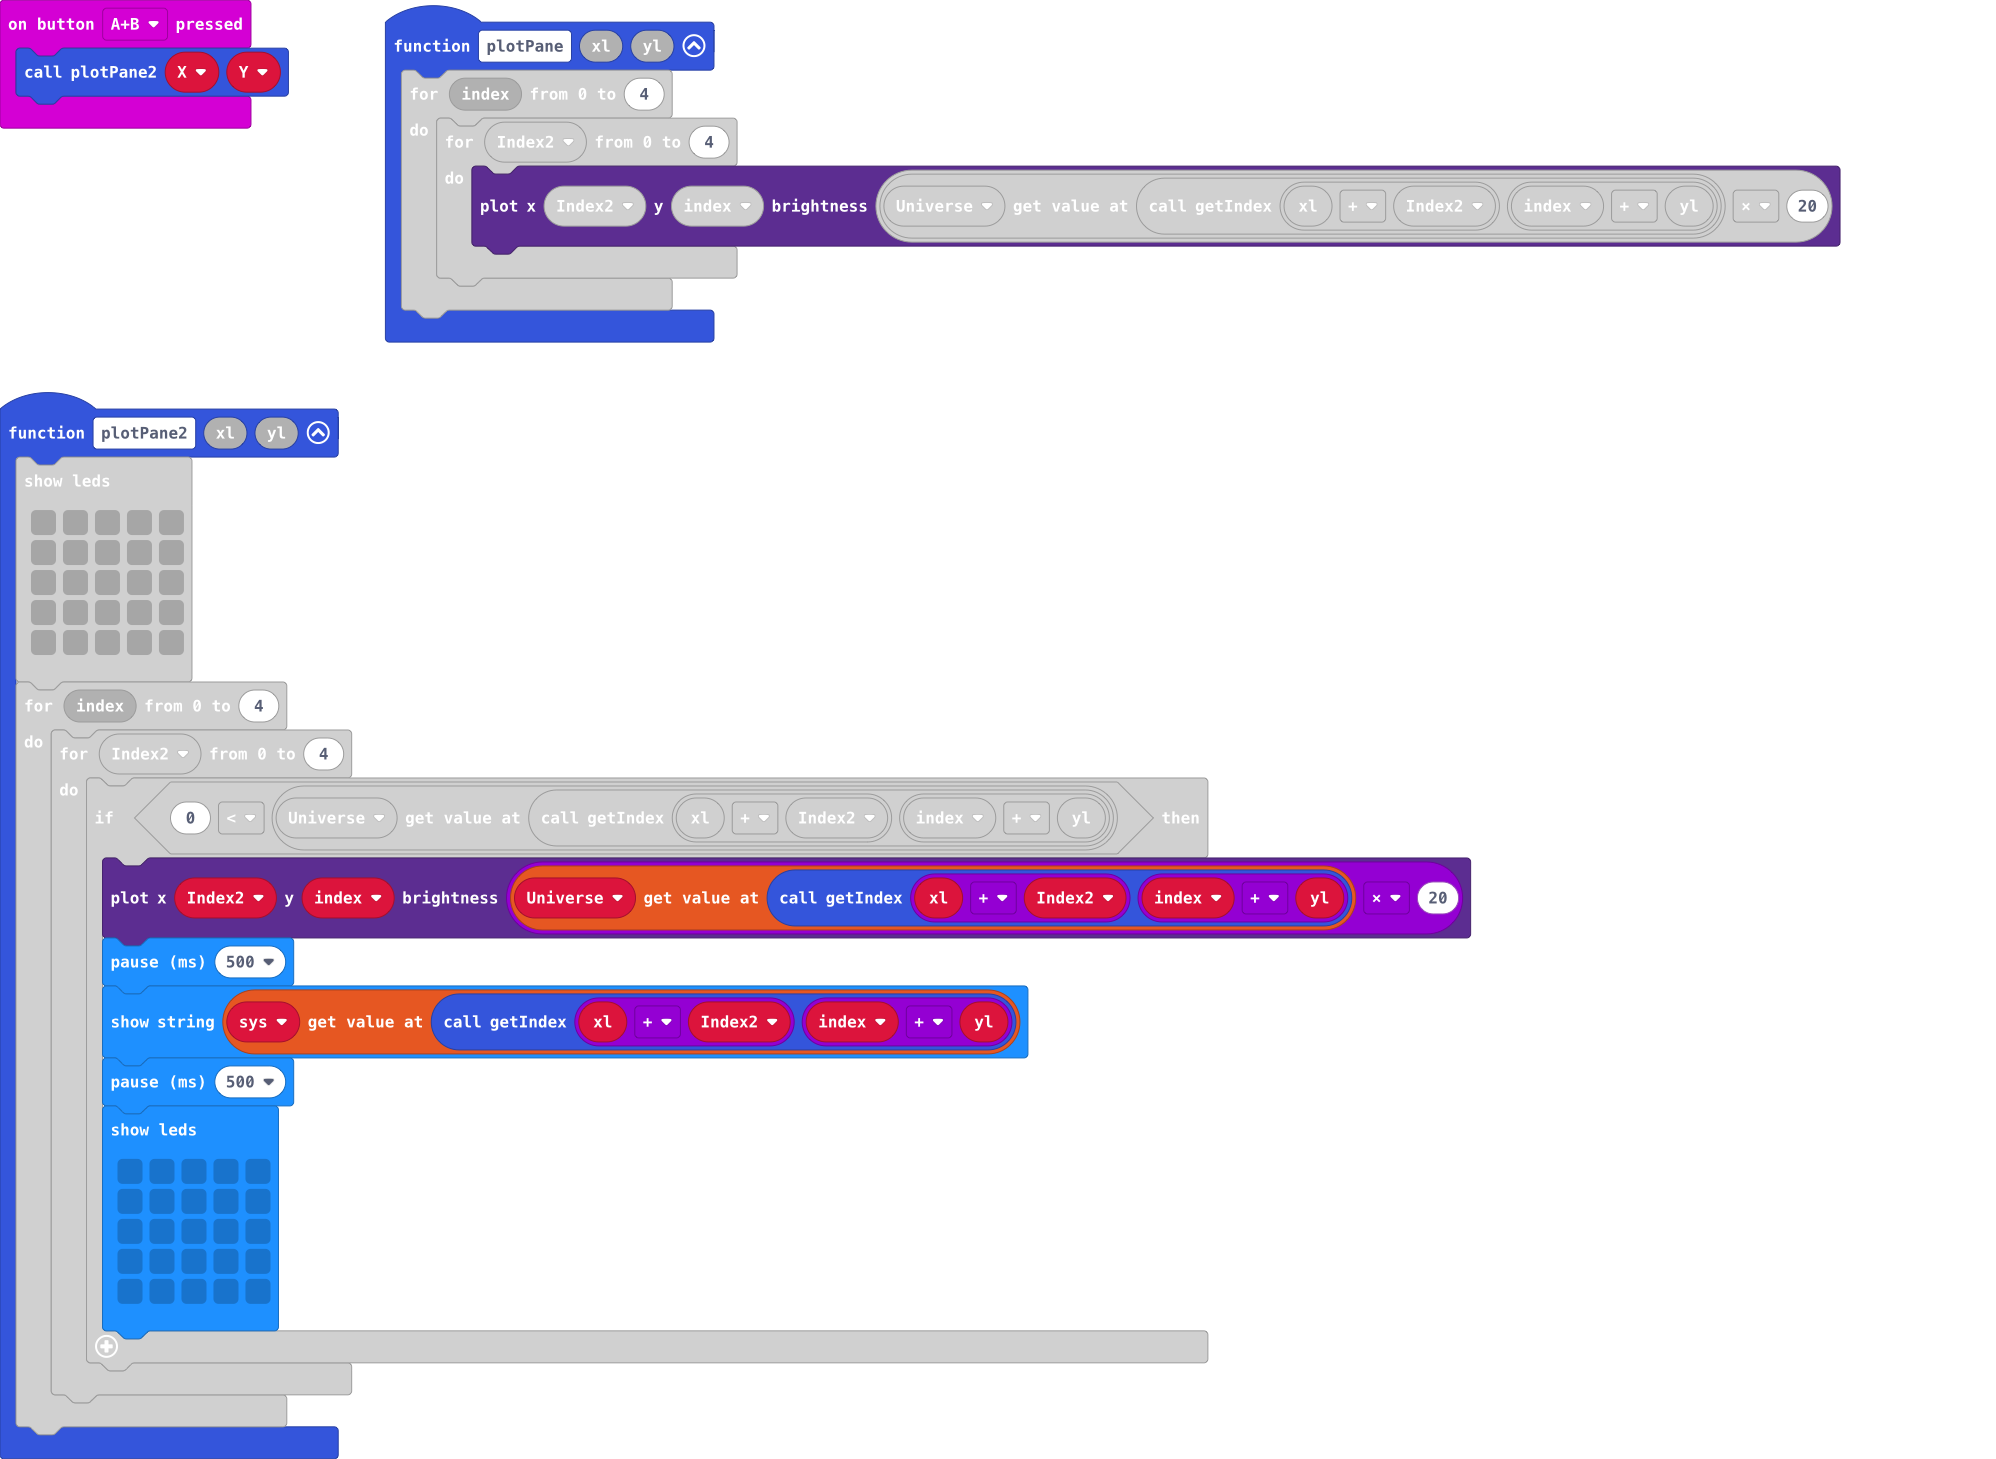
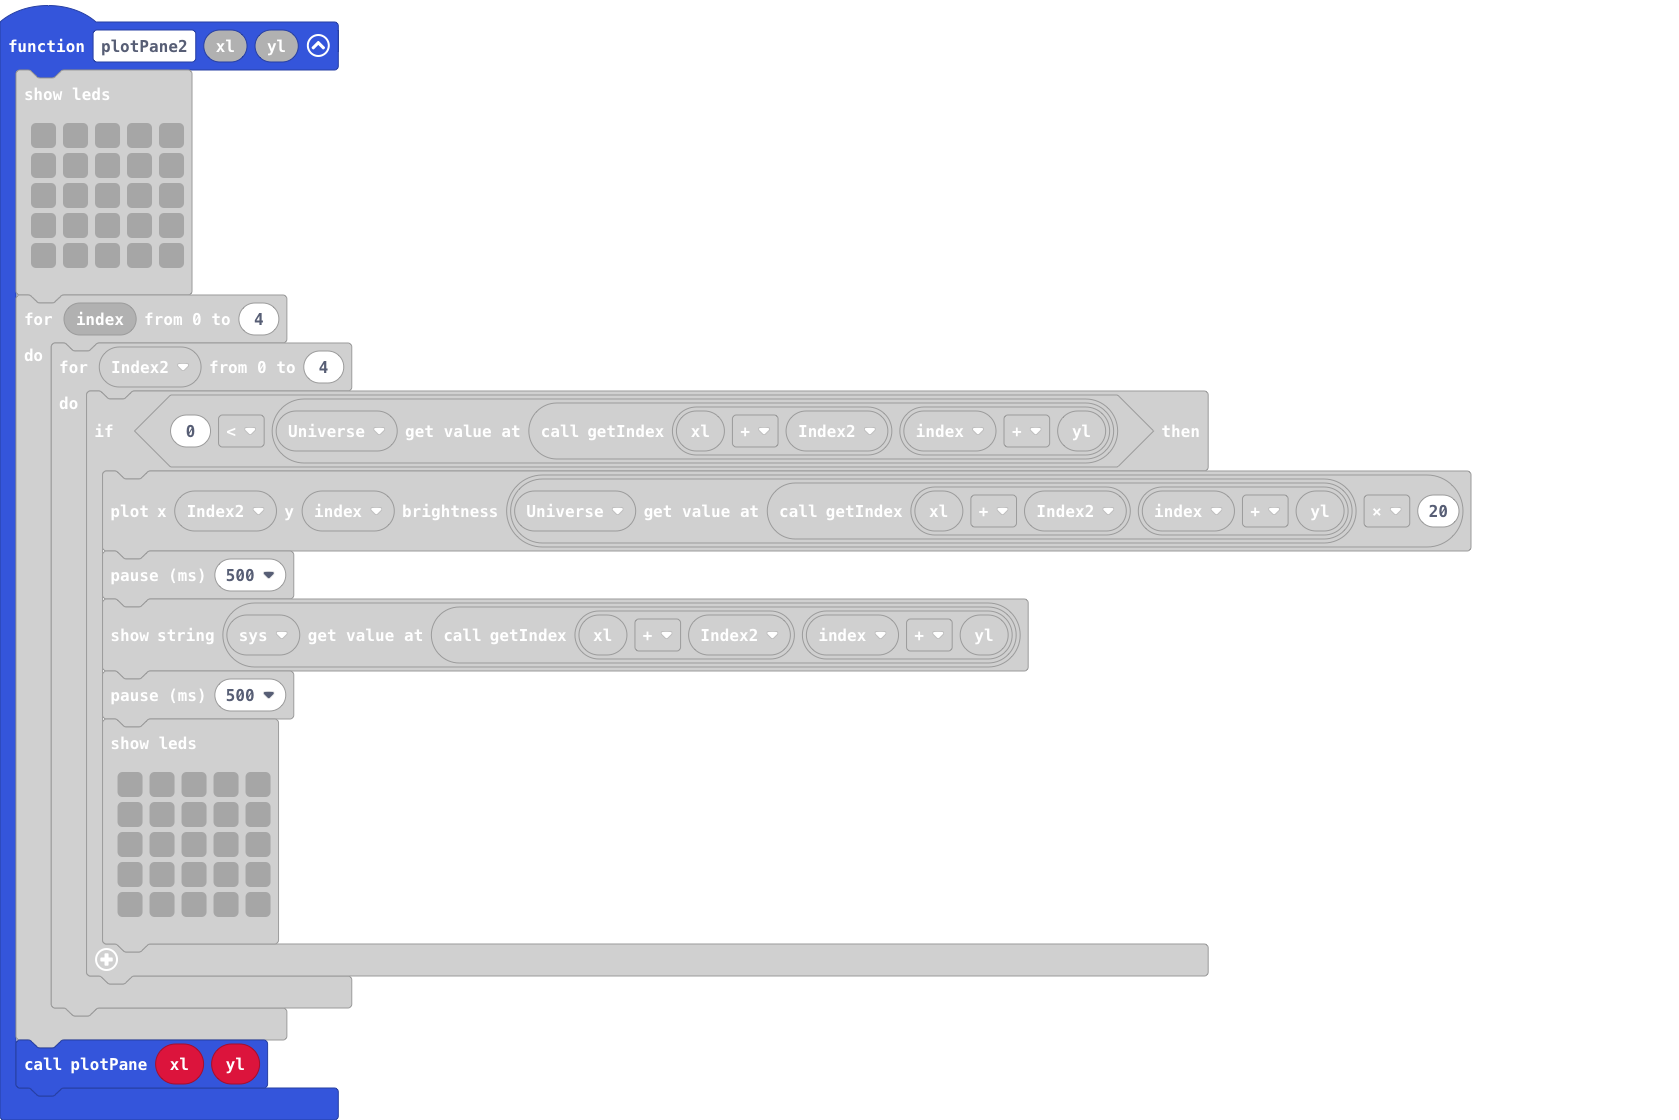
Update main.blocks, main.ts

diff --git a/main.ts b/main.ts
@@ -49,6 +49,7 @@ function plotPane2 (xl: number, yl: number) {
             }
         }
     }
+    plotPane(xl, yl)
 }
 input.onButtonPressed(Button.AB, function () {
     plotPane2(X, Y)
